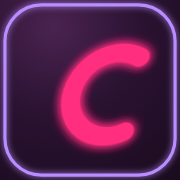
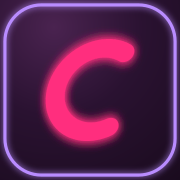
Centre le C rose dans le carré de l'icône
Même tracé LOCK, seul le placement bouge. Le splash Apple était déjà
centré sur le cadre du C. Le carré de démarrage et le sticker suivent.

Changed region(s): [[0.1944, 0.1667, 0.8889, 0.8611]]

diff --git a/src/lib/bootShell.test.ts b/src/lib/bootShell.test.ts
@@ -260,16 +260,17 @@ describe('apple startup images', () => {
 });
 
 describe('variant D icons', () => {
-  it('copies the provided files and packs the favicon from those sizes', () => {
+  it('keeps the same C, centered in the square, and packs the favicon', () => {
+    assert.match(BOOT_SHELL_MARKUP, /translate\(-5\.6 0\) skewX\(-12\) translate\(8 0\)/);
     const expected: Record<string, string> = {
-      'public/icon-192.png': 'df6c3768f870bf45d78e2ca08e134768825cff59',
-      'public/icon-512.png': 'aba2ed003679bba342c865e7d9d9406e5fc3ea85',
-      'public/icon-192-maskable.png': 'b0bd56adf02c853ceb21a52aaac93e190f13a6f5',
-      'public/icon-512-maskable.png': '1ac28f115eacb6a36aeb13c5d0dce5d2a3daccbd',
-      'public/apple-touch-icon.png': '31986e5eac1dffe7251109d4c3bbe3ac0219ad14',
-      'public/plan-c-icon-LOCK-v4-neon.svg': 'c36d7943424a35d5698e02a02f0bc49ec49c58f3',
-      'public/plan-c-icon-maskable-v4.svg': 'bb636632ed9c2adb9b8aa2c0fb8bac2975e30180',
-      'public/favicon-v4.svg': '8d65ccae6bda6084c21cc43df0e4074b4e4cfe56',
+      'public/icon-192.png': '996bbbb7504f69a56e4f8e53388a6fe54e0b8d22',
+      'public/icon-512.png': 'd9f9275a938f1be6223d896b19f6472b1218f7a0',
+      'public/icon-192-maskable.png': '1b8fcdf436ec6d7fe1707270f3ce8628aa86e34a',
+      'public/icon-512-maskable.png': '54712cc86a58f9d196b70350e07dde919acdd140',
+      'public/apple-touch-icon.png': '04f935bba2890c2aef14f97236230f660a8b9c2a',
+      'public/plan-c-icon-LOCK-v4-neon.svg': '91259f783cc20bd05b5cf90f5e48d9c9ccece0d4',
+      'public/plan-c-icon-maskable-v4.svg': '3593e9d871352a286c0a65a793a7a03cb24c5c57',
+      'public/favicon-v4.svg': '1c59f2bb1492875e2fd1f06d7105acd9cfac2c37',
     };
     for (const [file, sha] of Object.entries(expected)) {
       assert.equal(gitBlobSha1(path.join(process.cwd(), file)), sha, file);
@@ -280,7 +281,7 @@ describe('variant D icons', () => {
     assert.equal(ico.readUInt16LE(2), 1);
     assert.equal(ico.readUInt16LE(4), 3);
     const sizes = [16, 32, 48];
-    const lengths = [758, 1813, 2953];
+    const lengths = [779, 1765, 2730];
     for (let i = 0; i < 3; i += 1) {
       assert.equal(ico.readUInt8(6 + i * 16), sizes[i]);
       assert.equal(ico.readUInt8(7 + i * 16), sizes[i]);

diff --git a/src/lib/bootShellMarkup.ts b/src/lib/bootShellMarkup.ts
@@ -34,7 +34,7 @@ html[data-app-ready] #${BOOT_SHELL_ID}{opacity:0;pointer-events:none}
 `.trim();
 
 /** Centered rose C, agenda morph, hint. No Top 3 titles, no remote assets. */
-export const BOOT_SHELL_MARKUP = `<div id="${BOOT_SHELL_ID}" role="status" aria-busy="true" aria-labelledby="cc-boot-hint"><div class="cc-boot-mark" aria-hidden="true"><svg class="cc-boot-c" viewBox="0 0 64 64"><g transform="skewX(-12) translate(8 0)"><path d="M48 16a18 18 0 1 0 0 32" fill="none" stroke="#FF2E7E" stroke-width="7" stroke-linecap="round"/></g></svg><svg class="cc-boot-agenda" viewBox="0 0 64 64"><rect x="16" y="14" width="32" height="40" rx="5" fill="${BOOT_SHELL_CREAM}" stroke="#FF2E7E" stroke-width="2.4"/><path d="M16 24h32M24 10v8M40 10v8" fill="none" stroke="#FF2E7E" stroke-width="2.4" stroke-linecap="round"/><path d="M24 34h18M24 42h14M24 48h10" fill="none" stroke="#C4A882" stroke-width="2.4" stroke-linecap="round"/></svg></div><p id="cc-boot-hint">${BOOT_SHELL_HINT}</p><div class="cc-boot-rails" aria-hidden="true"><i></i><i></i><i></i></div></div>`;
+export const BOOT_SHELL_MARKUP = `<div id="${BOOT_SHELL_ID}" role="status" aria-busy="true" aria-labelledby="cc-boot-hint"><div class="cc-boot-mark" aria-hidden="true"><svg class="cc-boot-c" viewBox="0 0 64 64"><g transform="translate(-5.6 0) skewX(-12) translate(8 0)"><path d="M48 16a18 18 0 1 0 0 32" fill="none" stroke="#FF2E7E" stroke-width="7" stroke-linecap="round"/></g></svg><svg class="cc-boot-agenda" viewBox="0 0 64 64"><rect x="16" y="14" width="32" height="40" rx="5" fill="${BOOT_SHELL_CREAM}" stroke="#FF2E7E" stroke-width="2.4"/><path d="M16 24h32M24 10v8M40 10v8" fill="none" stroke="#FF2E7E" stroke-width="2.4" stroke-linecap="round"/><path d="M24 34h18M24 42h14M24 48h10" fill="none" stroke="#C4A882" stroke-width="2.4" stroke-linecap="round"/></svg></div><p id="cc-boot-hint">${BOOT_SHELL_HINT}</p><div class="cc-boot-rails" aria-hidden="true"><i></i><i></i><i></i></div></div>`;
 
 /**
  * Arms the cap and the standalone gate before the app bundle.

diff --git a/src/components/FeedbackChat.tsx b/src/components/FeedbackChat.tsx
@@ -572,7 +572,7 @@ export default function FeedbackChat() {
         }}
       >
         <svg className="h-7 w-7" viewBox="0 0 64 64" aria-hidden="true">
-          <g transform="skewX(-12) translate(8 0)">
+          <g transform="translate(-5.6 0) skewX(-12) translate(8 0)">
             <path
               d="M48 16a18 18 0 1 0 0 32"
               fill="none"

diff --git a/briefs/README.md b/briefs/README.md
@@ -51,4 +51,4 @@ Statuts : **À faire** · **En cours** · **Fait (#PR)** · **Bloqué** · **Rem
 | — | splash PWA cold open V0 | En cours | Path A+B brandé + prefetch `window=home` pendant le splash. HOLD soft+GO. Soft tip No merge. |
 | — | tip social beat 1 | En cours | Une ligne sous Envie / J’y vais, 1ʳᵉ Envie ou Partager connecté, drapeau `cc_social_tip_b1_seen`. HOLD soft+GO. Soft ne merge pas. |
 | — | thème nuit PR 1 (brief `2026-10-03-theme-nuit-plan-c.md` sur #252) | Fait (#254) | Couleurs de base + lisibilité. |
-| — | thème nuit PR 3 icône néon D (même brief, #252 non mergée) | En cours | Icône D + C rose + écran de démarrage, depuis main. HOLD merge : Soft Design puis GO Eloi. Pas de PR 4. |
+| — | thème nuit PR 3 icône néon D (même brief, #252 non mergée) | En cours | #259. C rose centré dans le carré (demande Eloi). HOLD merge : Soft Design puis GO Eloi. Pas de PR 4. |
